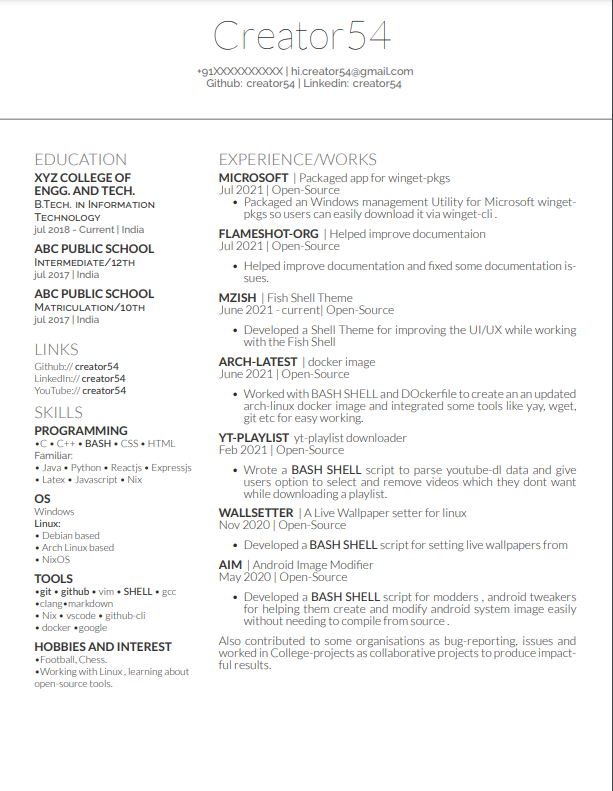
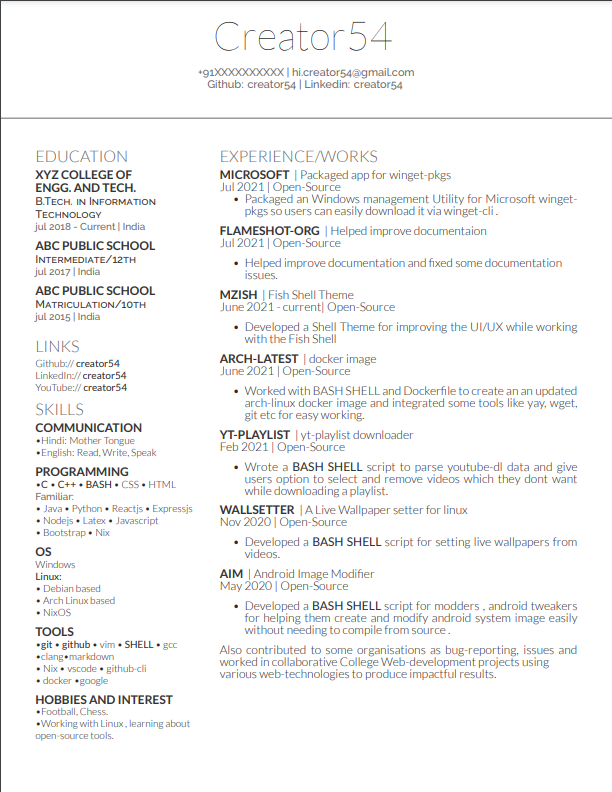
update

Changed region(s): [[0.3415, 0.182, 0.9624, 0.8799], [0.031, 0.182, 0.3105, 0.9406], [0.0, 0.0, 1.0, 1.0]]

diff --git a/cv.tex b/cv.tex
@@ -47,9 +47,9 @@
 \href{mailto://hi.creator54@gmail.com}{hi.creator54@gmail.com} \\
 \href{https://github.com/creator54}{Github: creator54} |
 \href{https://linkedin.com/in/creator54}{Linkedin: creator54}
-\vspace{20pt}
+\vspace{18pt}
 }
-\vspace{20pt}
+\vspace{18pt}
 
 
 %%%%%%%%%%%%%%%%%%%%%%%%%%%%%%%%%%%%%%
@@ -79,7 +79,7 @@
 
 \subsection{ABC Public School}
 \descript{Matriculation/10th}
-\location{jul 2017 | India}
+\location{jul 2015 | India}
 \sectionsep
 
 %%%%%%%%%%%%%%%%%%%%%%%%%%%%%%%%%%%%%%
@@ -96,11 +96,16 @@ YouTube:// \href{https://www.youtube.com/user/creator54}{\bf creator54} \\
 %%%%%%%%%%%%%%%%%%%%%%%%%%%%%%%%%%%%%%
 
 \section{Skills}
+\subsection{Communication}
+\textbullet{}Hindi: Mother Tongue\\
+\textbullet{}English: Read, Write, Speak
+\sectionsep
+
 \subsection{Programming}
-\textbullet{}C \textbullet{} C++ \textbullet{} \textbf{BASH} \textbullet{} CSS \textbullet{} HTML \\
+\textbullet{}\textbf{C} \textbullet{} \textbf{C++} \textbullet{} \textbf{BASH} \textbullet{} CSS \textbullet{} HTML \\
 \location{Familiar:}
- \textbullet{} Java \textbullet{} Python \textbullet{} Reactjs \textbullet{} Expressjs \\
- \textbullet{} Latex \textbullet{} Javascript \textbullet{} Nix
+\textbullet{} Java \textbullet{} Python \textbullet{} Reactjs \textbullet{} Expressjs\\
+\textbullet{} Nodejs \textbullet{} Latex \textbullet{} Javascript\\ \textbullet{} Bootstrap \textbullet{} Nix
 \sectionsep
 
 \subsection{OS}
@@ -141,18 +146,18 @@ Windows \\
 \runsubsection {Microsoft}
 \href{https://github.com/microsoft/winget-pkgs/pull/19513}{| Packaged app for winget-pkgs }\\
 \href{https://github.com/microsoft/winget-pkgs/pull/19513}{Jul 2021 | Open-Source}
-\vspace{\topsep} % Hacky fix for awkward extra vertical space
+\vspace{\topsep} % Hacky fix for awkward extra verticl space
 \begin{tightemize}
 \item Packaged an Windows management Utility for Microsoft winget-pkgs so users can easily download it via winget-cli .
 \end{tightemize}
 \sectionsep
 
-\unsubsection {Flameshot-org}
+\runsubsection {Flameshot-org}
 \href{https://github.com/flameshot-org/flameshot}{| Helped improve documentaion }\\
 \href{https://github.com/flameshot-org/flameshot}{Jul 2021 | Open-Source}
 \vspace{\topsep} % Hacky fix for awkward extra vertical space
 \begin{tightemize}
-\item Helped improve documentation and fixed some documentation issues.
+\item Helped improve documentation and fixed some documentation \\issues.
 \end{tightemize}
 \sectionsep
 
@@ -171,12 +176,12 @@ Windows \\
 \href{https://github.com/creator54/arch-latest}{June 2021 | Open-Source}
 \vspace{\topsep} % Hacky fix for awkward extra vertical space
 \begin{tightemize}
-\item Worked with BASH SHELL and DOckerfile to create an an updated arch-linux docker image and integrated some tools like yay, wget, git etc for easy working.
+\item Worked with BASH SHELL and Dockerfile to create an an updated arch-linux docker image and integrated some tools like yay, wget, git etc for easy working.
 \end{tightemize}
 \sectionsep
 
 \runsubsection {yt-playlist}
-\href{https://github.com/creator54/yt-playlist}{yt-playlist downloader }\\
+\href{https://github.com/creator54/yt-playlist}{| yt-playlist downloader }\\
 \href{https://github.com/creator54/yt-playlist}{Feb 2021 | Open-Source}
 \vspace{\topsep} % Hacky fix for awkward extra vertical space
 \begin{tightemize}
@@ -189,7 +194,7 @@ Windows \\
 \href{https://github.com/creator54/wallsetter}{Nov 2020 | Open-Source}
 \vspace{\topsep} % Hacky fix for awkward extra vertical space
 \begin{tightemize}
-\item Developed a \textbf{BASH SHELL} script for setting live wallpapers from
+\item Developed a \textbf{BASH SHELL} script for setting live wallpapers from videos.
 \end{tightemize}
 \sectionsep
 
@@ -202,8 +207,8 @@ Windows \\
 \end{tightemize}
 \sectionsep
 
-Also contributed to some organisations as bug-reporting, issues and worked in College-projects as collaborative projects to produce impactful results.
+Also contributed to some organisations as bug-reporting, issues and worked in collaborative College Web-development projects using \\various web-technologies to produce impactful results.
 
 \end{minipage} 
 \end{document}  \documentclass[]{article}
-r
+a
